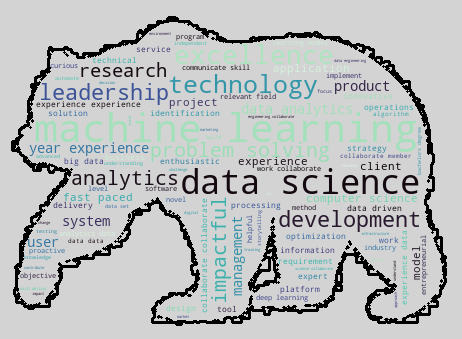
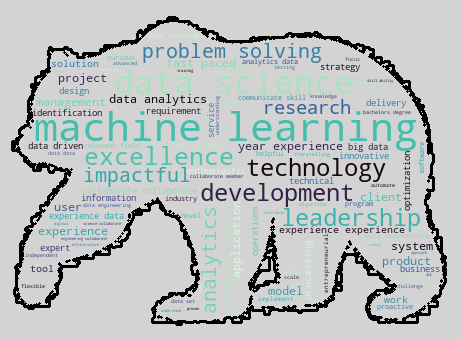
integrated visualization subtopic terms into skills list

Changed region(s): [[0.0303, 0.0885, 0.9394, 0.944]]

diff --git a/nlp_main.py b/nlp_main.py
@@ -4158,13 +4158,15 @@ def nlp_skill_lists(additional_stopwords):
                           'pickle', 'pmml', 'png', 'qualitative', 'quantitative',
                           'sas', 'sql', 'stata', 'structured', 'text', 'tfrecords',
                           'trajectory', 'txt', 'unstructured', 'xlsx', 'xml', 'yaml', 'zip']  ### waiting on 'time series' and bigrams
-####### !!!!!!!! WORKING HERE: create subtopic lists    
+ 
     subtopic_viz = ['bokeh', 'chartblocks', 'cognos', 'd3js', 'dashboard',  'datawrapper',  'domo',
                     'dundas', 'echarts', 'excel', 'finereport', 'fusioncharts', 'ggplot', 'grafana',
                     'highcharts', 'infogram', 'interactive', 'kibana', 'klipfolio', 'leaflet',
                     'looker', 'matplotlib', 'palantir', 'plotly', 'polymaps', 'power bi', 'pydot',
                     'qlik', 'seaborn', 'sigmajs', 'sisense', 'spotfire', 'tableau', 'vega',
-                    'visio', 'visualization', 'watson', 'zoho']
+                    'visio', 'visualization', 'watson', 'zoho'] ### need to work the power bi bigram
+####### !!!!!!!! WORKING HERE: create subtopic lists       
+    subtopic_ide = ['anaconda', 'pycharm', 'rstudio']
 
     subtopic_tooling = ['access', 'accumulo', 'alteryx', 'anaconda', 'ansible', 'apache', 'arcgis', 'aspnet', 'bash',
                         'bitbucket', 'cad', 'cassandra', 'centos', 'cli', 'cloudera', 'cognos', 'cosmos', 'cplex', 'cuda',
@@ -4205,7 +4207,7 @@ def nlp_skill_lists(additional_stopwords):
     
 
     
-    subtopic_ide = ['anaconda', 'pycharm', 'rstudio']
+
     
     # subtopics to work backwards for: ds_workflow (eda, etl, etc.); math classes/basics only
     # maybe need a pipeline subtopic: ingest > cleaning > modeling > eval > etc.
@@ -4300,6 +4302,7 @@ def nlp_skill_lists(additional_stopwords):
                          'cicd',
                          'chain',
                          'chart',
+                         'chartblocks',
                          'chatbot',
                          'classification',
                          'cleaning',
@@ -4361,6 +4364,7 @@ def nlp_skill_lists(additional_stopwords):
                          'dataminr',
                          'datarobot',
                          'datatable',
+                         'datawrapper',
                          'data-driven',
                          'dax', 
                          'decomposition',  
@@ -4386,11 +4390,13 @@ def nlp_skill_lists(additional_stopwords):
                          'django',
                          'dplyr',
                          'dsp',
+                         'dundas',
                          'dynamodb',
                          'e1071',
                          'early', 
                          'ebs',
                          'ec2',
+                         'echarts',
                          'ecosystem',
                          'eda',
                          'edge',
@@ -4420,6 +4426,7 @@ def nlp_skill_lists(additional_stopwords):
                          'feature',
                          'filter', 
                          'filtering',
+                         'finereport',
                          'fivetran',
                          'flair',
                          'flask',
@@ -4437,6 +4444,7 @@ def nlp_skill_lists(additional_stopwords):
                          'function',
                          'fundamental',
                          'fusion',
+                         'fusioncharts',
                          'gan',
                          'gaussian',
                          'gbm',
@@ -4454,6 +4462,7 @@ def nlp_skill_lists(additional_stopwords):
                          'gpt',
                          'gpu',
                          'gradient',
+                         'grafana',
                          'graph',
                          'graphql',
                          'groovy',
@@ -4470,6 +4479,7 @@ def nlp_skill_lists(additional_stopwords):
                          'hdfs',
                          'hidden',
                          'hierarchical',
+                         'highcharts',
                          'hive',
                          'hiveql',
                          'hpc',
@@ -4487,6 +4497,7 @@ def nlp_skill_lists(additional_stopwords):
                          'indexing', 
                          'inference',
                          'inferential',
+                         'infogram',
                          'informatica',
                          'information',
                          'infrastructure',
@@ -4520,6 +4531,7 @@ def nlp_skill_lists(additional_stopwords):
                          'kernel',
                          'kernlab',
                          'kibana',
+                         'klipfolio',
                          'kmeans',
                          'kms',
                          'knime',
@@ -4534,6 +4546,7 @@ def nlp_skill_lists(additional_stopwords):
                          'lattice',
                          'lda', 
                          'ldap',
+                         'leaflet',
                          'learning',
                          'lex',
                          'library',
@@ -4665,6 +4678,7 @@ def nlp_skill_lists(additional_stopwords):
                          'podman',
                          'polly',
                          'polyglot',
+                         'polymaps',
                          'postgresql',
                          'power',
                          'powershell',
@@ -4787,9 +4801,11 @@ def nlp_skill_lists(additional_stopwords):
                          'shell',
                          'shiny',
                          'sigint',
+                         'sigmajs',
                          'signal',
                          'simpleitk',
                          'simulation',
+                         'sisense',
                          'skewness',
                          'skill', 
                          'sklearn',
@@ -4878,6 +4894,7 @@ def nlp_skill_lists(additional_stopwords):
                          'variable',
                          'vba',
                          'vector',
+                         'vega',
                          'version',
                          'vertica',
                          'virtualbox',
@@ -4906,7 +4923,8 @@ def nlp_skill_lists(additional_stopwords):
                          'yarn',
                          'zeromq',
                          'zerovm',
-                         'zip']    
+                         'zip',
+                         'zoho']    
     
     ds_soft_skill_terms = ['adhoc',
                            'ability',
